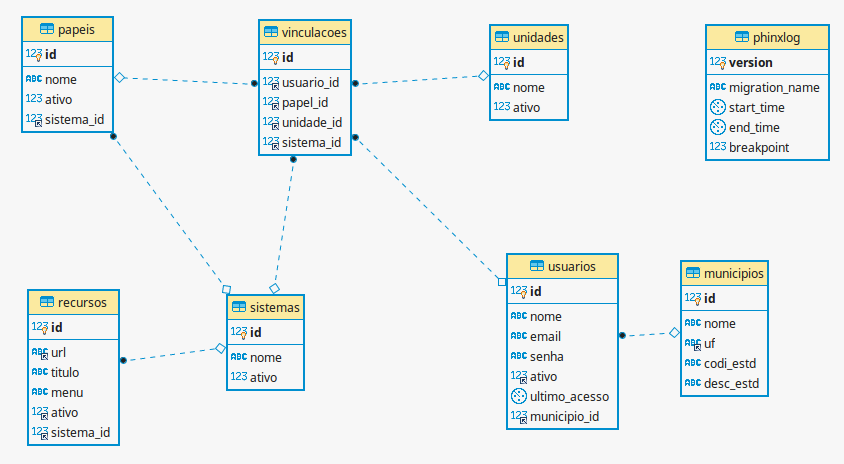
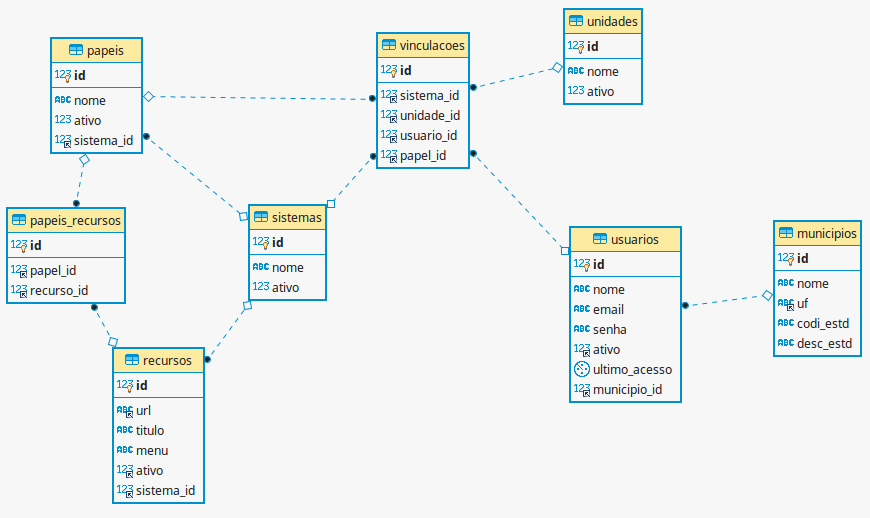
atualizando dtr

diff --git a/config/Migrations/20191125134922_Base.php b/config/Migrations/20191125134922_Base.php
@@ -82,18 +82,29 @@ class Base extends AbstractMigration {
             ->addForeignKey('sistema_id', 'sistemas', 'id', ['update' => 'CASCADE', 'delete' => 'CASCADE'])
             ->update();
 
+        $this->table('papeis_recursos')
+            ->addColumn('papel_id',   'integer',  ['limit'=>11])
+            ->addColumn('recurso_id', 'integer',  ['limit'=>11])
+            ->create();
+        $this->table('papeis_recursos')
+            ->addForeignKey('papel_id',   'papeis',   'id', ['update' => 'CASCADE', 'delete' => 'CASCADE'])
+            ->addForeignKey('recurso_id', 'recursos', 'id', ['update' => 'CASCADE', 'delete' => 'CASCADE'])
+            ->update();
+        $this->updatePapeisRecursos();
+
         $this->table('vinculacoes')
+            ->addColumn('sistema_id',   'integer',  ['limit'=>11])
+            ->addColumn('unidade_id',   'integer',  ['limit'=>11])
             ->addColumn('usuario_id',   'integer',  ['limit'=>11])
             ->addColumn('papel_id',     'integer',  ['limit'=>11])
-            ->addColumn('unidade_id',   'integer',  ['limit'=>11])
-            ->addColumn('sistema_id',   'integer',  ['limit'=>11])
             ->create();
         $this->table('vinculacoes')
+            ->addForeignKey('sistema_id',   'sistemas', 'id',   ['update' => 'CASCADE', 'delete' => 'CASCADE'])
+            ->addForeignKey('unidade_id',   'unidades', 'id',   ['update' => 'CASCADE', 'delete' => 'CASCADE'])
             ->addForeignKey('usuario_id',   'usuarios', 'id',   ['update' => 'CASCADE', 'delete' => 'CASCADE'])
             ->addForeignKey('papel_id',     'papeis',   'id',   ['update' => 'CASCADE', 'delete' => 'CASCADE'])
-            ->addForeignKey('unidade_id',   'unidades', 'id',   ['update' => 'CASCADE', 'delete' => 'CASCADE'])
-            ->addForeignKey('sistema_id',   'sistemas', 'id',   ['update' => 'CASCADE', 'delete' => 'CASCADE'])
             ->update();
+        $this->updateVinculacoes();
 
         echo "\n";
     }
@@ -107,6 +118,7 @@ class Base extends AbstractMigration {
         $this->table('usuarios')->dropForeignKey('municipio_id')->save();
         $this->table('municipios')->drop()->save();
         $this->table('usuarios')->drop()->save();
+        $this->table('papeis_recursos')->drop()->save();
         $this->table('recursos')->drop()->save();
         $this->table('papeis')->drop()->save();
         $this->table('unidades')->drop()->save();
@@ -247,6 +259,44 @@ class Base extends AbstractMigration {
 
         $data[] = ['url'=>'/ajuda/manual',         'menu'=>'Ajuda', 'titulo'=>'Manual'];
         $data[] = ['url'=>'/ajuda/sobre',          'menu'=>'Ajuda', 'titulo'=>'Sobre'];
+
+        $table->insert($data)->save();
+    }
+
+    /**
+     * Atualiza as vinculações.
+     *
+     * @return  void
+     */
+    private function updateVinculacoes()
+    {
+        $this->execute('delete from vinculacoes');
+        $table = $this->table('vinculacoes');
+
+        $data   = [];
+        $data[] = ['sistema_id'=>1, 'usuario_id'=>1, 'unidade_id'=>1, 'papel_id'=>1];
+        $data[] = ['sistema_id'=>1, 'usuario_id'=>1, 'unidade_id'=>1, 'papel_id'=>2];
+
+        $table->insert($data)->save();
+    }
+
+    /**
+     * Atualiza as updatePapeisRecursos.
+     *
+     * @return  void
+     */
+    private function updatePapeisRecursos()
+    {
+        $this->execute('delete from papeis_recursos');
+        $table = $this->table('papeis_recursos');
+
+        $data   = [];
+        for( $i=1; $i<13; $i++)
+        {
+            $data[] = ['papel_id'=>1, 'recurso_id'=>$i];
+            $data[] = ['papel_id'=>1, 'recurso_id'=>$i];
+            $data[] = ['papel_id'=>1, 'recurso_id'=>$i];
+        }
 
         $table->insert($data)->save();
     }

diff --git a/src/Command/InstalacaoCommand.php b/src/Command/InstalacaoCommand.php
@@ -59,6 +59,8 @@ class InstalacaoCommand extends Command
                 throw new Exception(__("senha inválida !"), 3);
             }
 
+            throw new Exception(__('Cancelado'), 1);
+
             $Usuario = $this->Usuarios->newEntity();
             $Usuario->nome  = $email;
             $Usuario->email = $email;
